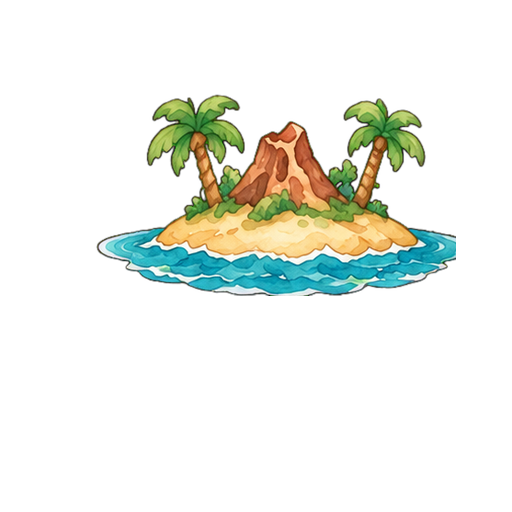
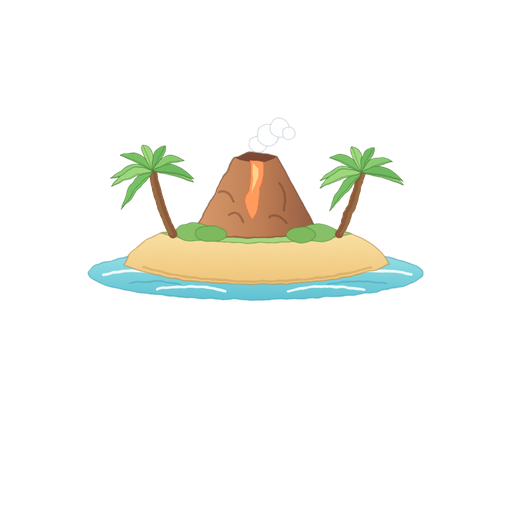
v46: isoletta ridisegnata, sfondo menu a colori naturali
Claude-Session: https://claude.ai/code/session_01EeKiG8y1kcPbdSHUHGW8AA

Changed region(s): [[0.1562, 0.1875, 0.9062, 0.5938]]

diff --git a/www/index.html b/www/index.html
@@ -809,6 +809,10 @@ const LS={
 let LOOK=6; // fisso: terreno a caselle separate su campo unico
 /* Registro modifiche: la prima voce è la versione attuale. Si aggiorna a ogni modifica. */
 const CHANGELOG=[
+{v:46,d:'24 nov 2026',t:'Isoletta ridisegnata e sfondo a colori naturali',n:[
+'Nuova isoletta con vulcano e due palme, disegnata da zero in pastello e nitida',
+'Sfondo del menu: via la neve e il bianco, montagne di roccia e prati verdi a colori naturali'
+]},
 {v:45,d:'24 nov 2026',t:'Grafica pastello in tutti i menu',n:[
 'Tutto il gioco passa a una grafica pastello ad acquerello: cornice del menu con pali di legno avvolti da corda ritorta vera, bottoni giallo burro e turchese, campo mappa, tendine, pannelli e bottoni della partita, schede di pausa, fine partita, recluta e rinforzi con una cornice di pali più piccola',
 'Nuova isoletta con palme e vulcano nel menu; sfondi del menu e di vittoria, sconfitta e pareggio schiariti; testi più leggibili sui fondi chiari'

diff --git a/strumenti/grafica-pastello/isola.py b/strumenti/grafica-pastello/isola.py
@@ -1,0 +1,68 @@
+import math, asyncio
+from playwright.async_api import async_playwright
+def leaf(cx,cy,ang,L,wd,fill,stroke='#4f7a3a'):
+    a=math.radians(ang); dx,dy=math.cos(a),math.sin(a); px,py=-dy,dx
+    ex,ey=cx+dx*L,cy+dy*L+L*0.28   # le foglie ricadono
+    c1=(cx+dx*L*.5+px*wd, cy+dy*L*.5+py*wd-L*0.12)
+    c2=(cx+dx*L*.5-px*wd, cy+dy*L*.5-py*wd-L*0.12)
+    return (f'<path d="M{cx:.1f} {cy:.1f} Q{c1[0]:.1f} {c1[1]:.1f} {ex:.1f} {ey:.1f} Q{c2[0]:.1f} {c2[1]:.1f} {cx:.1f} {cy:.1f}Z" fill="{fill}" stroke="{stroke}" stroke-opacity=".55" stroke-width="2.2" stroke-linejoin="round"/>'
+            f'<path d="M{cx:.1f} {cy:.1f} Q{(cx+ex)/2:.1f} {(cy+ey)/2-L*.1:.1f} {ex:.1f} {ey:.1f}" fill="none" stroke="#3f6a30" stroke-opacity=".45" stroke-width="1.6"/>')
+def palm(x0,y0,x1,y1,bend,flip):
+    cx,cy=x1,y1
+    s=f'<path d="M{x0} {y0} Q{x0+bend} {(y0+y1)/2} {x1} {y1}" fill="none" stroke="#a8714a" stroke-width="19" stroke-linecap="round"/>'
+    s+=f'<path d="M{x0} {y0} Q{x0+bend} {(y0+y1)/2} {x1} {y1}" fill="none" stroke="#d9a574" stroke-width="7" stroke-linecap="round" stroke-opacity=".6" transform="translate({-4*flip} 0)"/>'
+    s+=f'<path d="M{x0} {y0} Q{x0+bend} {(y0+y1)/2} {x1} {y1}" fill="none" stroke="#6f4528" stroke-width="19" stroke-linecap="round" stroke-dasharray="2 13" stroke-opacity=".55"/>'
+    angs=[-170,-135,-100,-60,-20,15,165,200,235] if True else []
+    cols=['#8ccf72','#74c063','#9bd77a','#6cb85c','#86cb6e']
+    for i,a in enumerate([-175,-140,-105,-70,-35,0,140,175,-5]):
+        s+=leaf(cx,cy,a,92 if abs(a) in(175,5,0,140) else 84,20,cols[i%5])
+    return s
+svg=f'''<svg xmlns="http://www.w3.org/2000/svg" width="800" height="440" viewBox="0 0 800 440">
+<defs>
+<linearGradient id="sand" x1="0" y1="0" x2="0" y2="1"><stop offset="0" stop-color="#fbe3a6"/><stop offset="1" stop-color="#eec378"/></linearGradient>
+<linearGradient id="volc" x1="0" y1="0" x2="1" y2="0"><stop offset="0" stop-color="#d79a6a"/><stop offset=".55" stop-color="#bd7b52"/><stop offset="1" stop-color="#8f5a40"/></linearGradient>
+<linearGradient id="wat" x1="0" y1="0" x2="0" y2="1"><stop offset="0" stop-color="#9ae3e6"/><stop offset="1" stop-color="#5ec1d1"/></linearGradient>
+<filter id="w" x="-5%" y="-5%" width="110%" height="110%"><feTurbulence type="fractalNoise" baseFrequency="0.035" numOctaves="2" seed="4" result="t"/><feDisplacementMap in="SourceGraphic" in2="t" scale="6"/></filter>
+<filter id="b"><feGaussianBlur stdDeviation="6"/></filter>
+<filter id="tex"><feTurbulence type="fractalNoise" baseFrequency="0.9" numOctaves="2" seed="2" result="n"/><feColorMatrix in="n" type="matrix" values="0 0 0 0 1  0 0 0 0 1  0 0 0 0 1  0 0 0 .35 -.1"/></filter>
+</defs>
+<g filter="url(#w)">
+ <!-- acqua -->
+ <ellipse cx="400" cy="352" rx="385" ry="66" fill="#ffffff" fill-opacity=".9"/>
+ <ellipse cx="400" cy="350" rx="372" ry="58" fill="url(#wat)" stroke="#3f9db4" stroke-opacity=".5" stroke-width="3"/>
+ <path d="M60 352 Q120 336 190 352 M610 352 Q680 336 745 352 M180 385 Q260 372 330 388 M470 388 Q550 372 640 386" fill="none" stroke="#ffffff" stroke-opacity=".85" stroke-width="6" stroke-linecap="round"/>
+ <path d="M120 372 Q170 362 230 374 M560 374 Q620 362 690 372" fill="none" stroke="#3f9db4" stroke-opacity=".45" stroke-width="4" stroke-linecap="round"/>
+ <!-- isola -->
+ <path d="M105 330 Q140 262 255 246 L545 246 Q662 262 697 330 Q600 372 400 374 Q200 372 105 330Z" fill="url(#sand)" stroke="#b98a4a" stroke-opacity=".55" stroke-width="3"/>
+ <path d="M150 336 Q250 366 400 368 Q560 366 655 336" fill="none" stroke="#c89a56" stroke-opacity=".5" stroke-width="5" stroke-linecap="round"/>
+ <path d="M190 262 Q300 236 400 240 Q520 236 612 262 Q520 282 400 282 Q290 282 190 262Z" fill="#a8d57f" stroke="#5f9446" stroke-opacity=".5" stroke-width="3"/>
+ <!-- vulcano -->
+ <path d="M262 258 L352 92 Q400 72 448 92 L538 258 Q400 284 262 258Z" fill="url(#volc)" stroke="#6a3f2c" stroke-opacity=".55" stroke-width="3.5" stroke-linejoin="round"/>
+ <path d="M352 92 Q400 72 448 92 Q400 112 352 92Z" fill="#7a4631"/>
+ <path d="M386 98 Q396 140 378 176 Q372 205 392 230 Q412 200 408 160 Q420 126 414 100Z" fill="#ff9a5c" stroke="#e0703a" stroke-opacity=".6" stroke-width="2"/>
+ <path d="M392 104 Q398 140 388 170 Q404 150 406 118Z" fill="#ffd08a"/>
+ <path d="M318 170 Q338 160 350 190 M452 150 Q470 170 462 210 M340 220 Q360 205 372 236 M430 226 Q450 214 468 238" fill="none" stroke="#6a3f2c" stroke-opacity=".45" stroke-width="5" stroke-linecap="round"/>
+ <!-- fumo -->
+ <g fill="#ffffff" fill-opacity=".92" stroke="#b8c7cf" stroke-opacity=".5" stroke-width="2.5">
+  <circle cx="404" cy="62" r="19"/><circle cx="426" cy="42" r="24"/><circle cx="452" cy="26" r="21"/><circle cx="472" cy="38" r="14"/>
+ </g>
+ <!-- cespugli -->
+ <g fill="#86bf66" stroke="#4f8a3c" stroke-opacity=".5" stroke-width="2.5">
+  <ellipse cx="262" cy="258" rx="40" ry="20"/><ellipse cx="300" cy="262" rx="34" ry="18" fill="#7bb85c"/><ellipse cx="540" cy="260" rx="38" ry="19"/><ellipse cx="500" cy="264" rx="32" ry="17" fill="#7bb85c"/>
+ </g>
+ <!-- palme -->
+ {palm(215,262,170,122,-34,1)}
+ {palm(585,262,634,126,34,-1)}
+</g>
+<rect width="800" height="440" filter="url(#tex)" opacity=".35" style="mix-blend-mode:soft-light"/>
+</svg>'''
+open('isola.svg','w').write(svg)
+async def main():
+    async with async_playwright() as p:
+        b=await p.chromium.launch(executable_path='/usr/bin/google-chrome',args=['--no-sandbox'])
+        pg=await b.new_page(viewport={'width':800,'height':440},device_scale_factor=2)
+        await pg.set_content('<html><body style="margin:0;background:transparent">'+svg+'</body></html>')
+        await pg.wait_for_timeout(400)
+        await pg.screenshot(path='/tmp/rp/isola_nuova.png',omit_background=True)
+        await b.close()
+asyncio.run(main())

diff --git a/strumenti/grafica-pastello/bgnat.py b/strumenti/grafica-pastello/bgnat.py
@@ -1,0 +1,23 @@
+import numpy as np, cv2, subprocess
+from PIL import Image
+subprocess.run('cd /home/claude/repo-isole && git show 84b20a8:www/assets/menu/sfondo_menu.webp > /tmp/rp/bg_orig.webp',shell=True)
+im=np.array(Image.open('/tmp/rp/bg_orig.webp').convert('RGB'))
+H,W=im.shape[:2]
+hsv=cv2.cvtColor(im,cv2.COLOR_RGB2HSV).astype(np.float32); S=hsv[...,1]/255; V=hsv[...,2]/255
+def sm(x,a,b): t=np.clip((x-a)/(b-a),0,1); return t*t*(3-2*t)
+w=sm(V,0.60,0.80)*(1-sm(S,0.14,0.30))
+w=cv2.GaussianBlur(w,(0,0),2)
+# regione montagne (alto) e angoli alti
+yy=np.mgrid[0:H,0:W][0].astype(np.float32)/H
+mount=1-sm(yy,0.15,0.22)
+rock=np.array([172,164,148],np.float32)/255   # roccia calda
+ground=np.array([178,210,130],np.float32)/255 # prato
+tgt=rock*mount[...,None]+ground*(1-mount[...,None])
+lum=np.clip(V/0.88,0.72,1.2)[...,None]
+nat=np.clip(tgt*lum,0,1)
+f=im.astype(np.float32)/255
+out=f*(1-w[...,None])+nat*w[...,None]
+# schiarisci leggermente il tutto (pastello) senza sbiancare
+out=1-(1-out)*(1-0.06)
+Image.fromarray((np.clip(out,0,1)*255+.5).astype(np.uint8)).save('/tmp/rp/bg_nat.png')
+Image.fromarray((np.clip(out,0,1)*255+.5).astype(np.uint8)).resize((412,880)).save('/tmp/rp/bg_nat_s.png')

diff --git a/CHANGELOG.md b/CHANGELOG.md
@@ -2,6 +2,9 @@
 
 (Lo stesso registro è dentro il gioco: menu iniziale → «Novità e registro modifiche».)
 
+## v46 — 24 nov 2026 · Isoletta ridisegnata e sfondo naturale
+- Nuova isoletta con vulcano e palme; sfondo del menu senza neve, a colori naturali
+
 ## v45 — 24 nov 2026 · Grafica pastello in tutti i menu
 - Cornice a pali con corda ritorta, bottoni, campi, pannelli e schede in tavolozza pastello; nuova isoletta; sfondi schiariti; testi più leggibili
 
